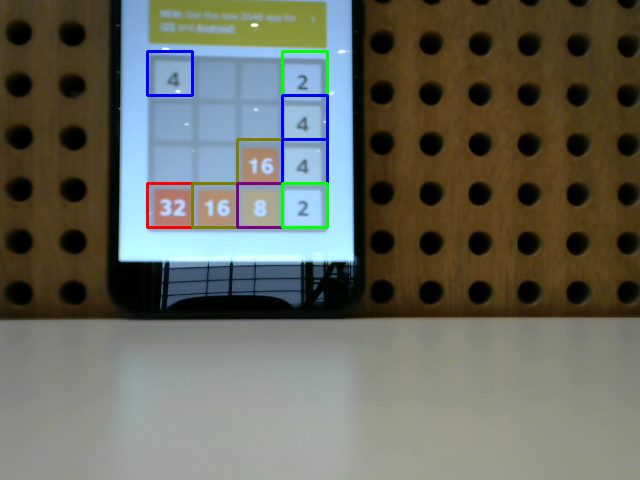
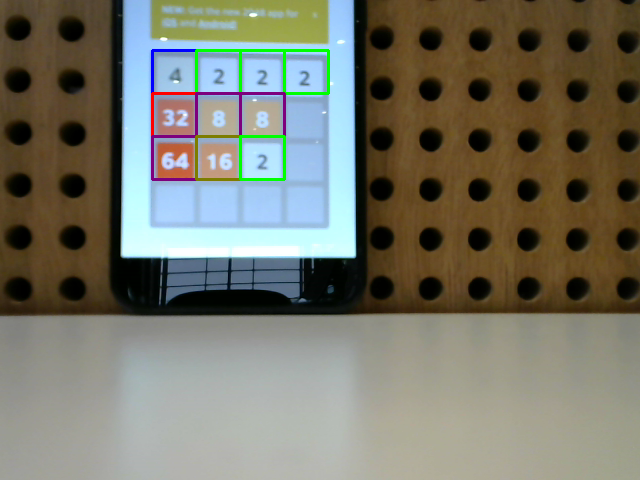
field selector

diff --git a/robot_vision/vision.py b/robot_vision/vision.py
@@ -22,14 +22,15 @@ def init():
     camera = cv2.VideoCapture(1)
     sleep(1)
     # UNCOMMENT THIS WHEN ACTUAL CAM IS CONNECTED
-    _, img_rgb  = camera.read()
+    #_, img_rgb  = camera.read()
     #img_rgb = cv2.imread(path + 'cam.png')
-
+    img_rgb = cv2.imread('cam.png')
 
     cv2.imwrite('cam.png',img_rgb)
     img_gray = cv2.cvtColor(img_rgb, cv2.COLOR_BGR2GRAY)
     tiles = os.listdir(tile_path)
-    fieldTemplate = cv2.imread(template_path + '/template_field.png', 0)
+    #fieldTemplate = cv2.imread(template_path + '/template_field.png', 0)
+    fieldTemplate = getFieldTemplate(img_gray)
     getField(fieldTemplate)
 
 def updateBoard():
@@ -37,8 +38,9 @@ def updateBoard():
     # get matches and put them on board list
 
     # UNCOMMENT THIS WHEN ACTUAL CAM IS CONNECTED
-    _, img_rgb  = camera.read()
-    # img_rgb = cv2.imread(path + 'cam.png')
+    #_, img_rgb  = camera.read()
+     #img_rgb = cv2.imread(path + 'cam.png')
+    img_rgb = cv2.imread('cam.png')
 
     img_gray = cv2.cvtColor(img_rgb, cv2.COLOR_BGR2GRAY)
     getAllMatches()
@@ -54,6 +56,16 @@ def getAllMatches():
         index += 1
     getMatches(templates,grid)
 
+# def getFieldTemplate(image,point):
+#     img =  image[point[0][1]:point[1][1], point[0][0]:point[1][0]]
+#     cv2.imwrite("field.png",img)
+#     return img
+
+def getFieldTemplate(image):
+    r = cv2.selectROI("Image",image,False,False)
+    imCrop = image[int(r[1]):int(r[1]+r[3]), int(r[0]):int(r[0]+r[2])]
+    cv2.imwrite("field.png", imCrop)
+    return imCrop
 
 
 def getMatches(templates,grid):
